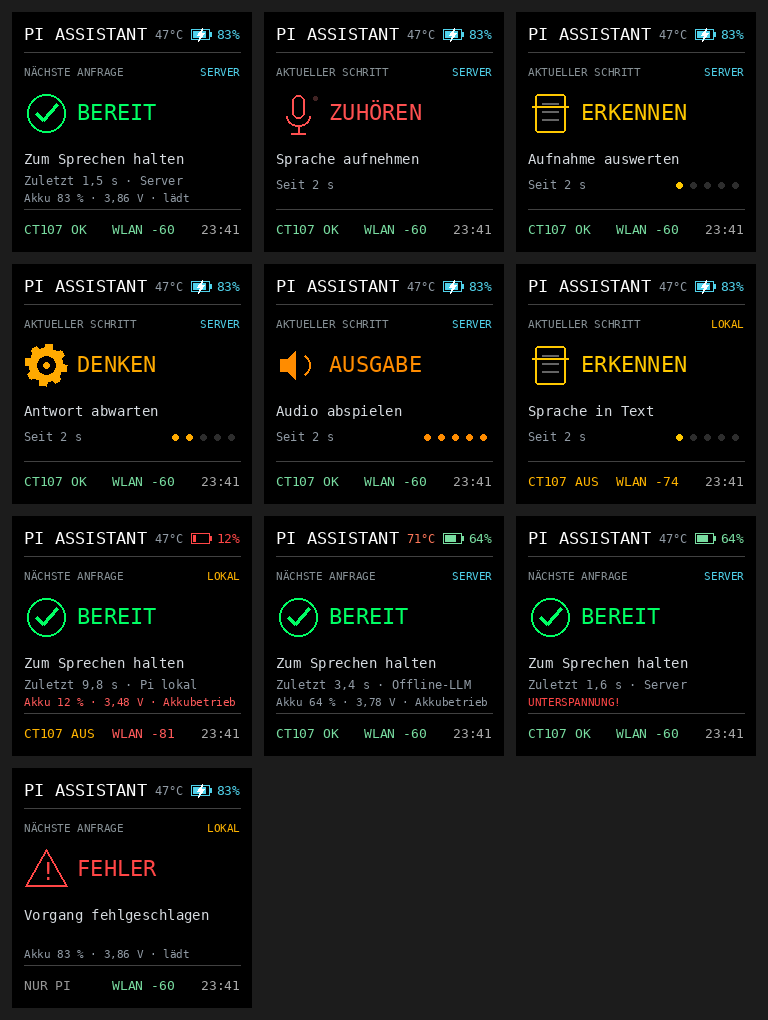
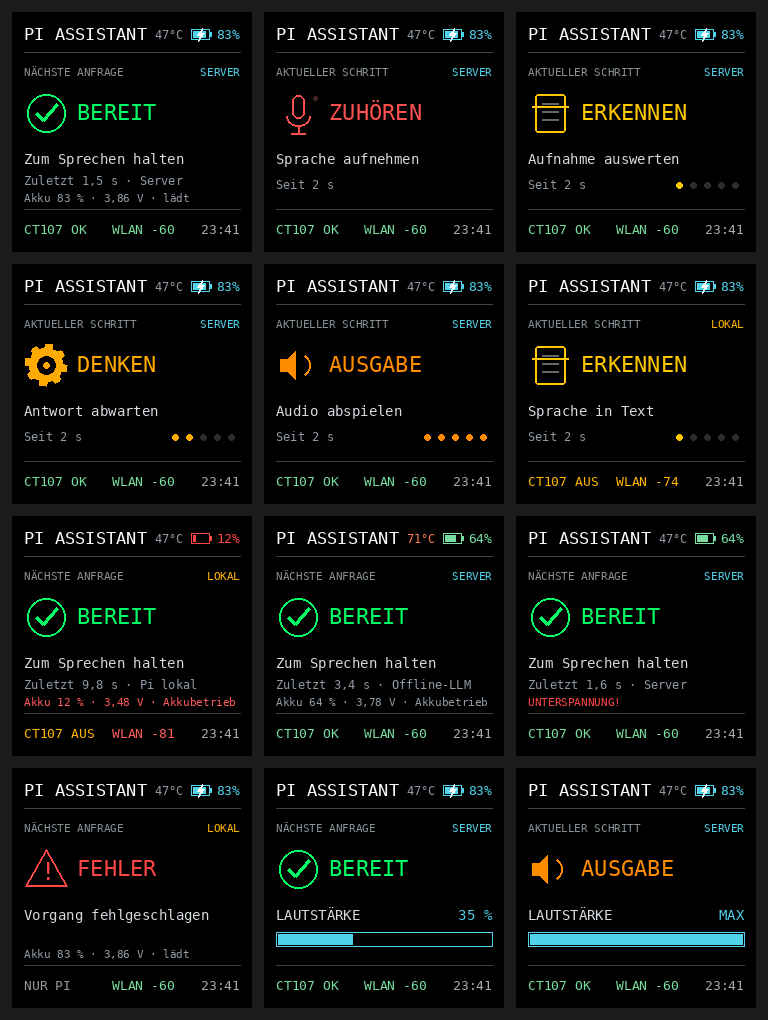
feat: gentle 2 dB volume steps with hold-to-repeat and PiTFT feedback
Each C/D press changed digital Playback by "5 %" of the raw range, about
6.4 dB, an audible jump. change_volume now steps in dB (default 2 dB,
TTS_VOLUME_STEP_DB) within -60..0 dB on the 0.5 dB raw grid, never raises
a level that is already below the floor, and returns dB, percent and the
limit hit. Holding C/D repeats after 0.45 s every 0.15 s.

ptt.py publishes volume, volume_limit and volume_at (whitelisted) to the
display status; the PiTFT shows "LAUTSTÄRKE" with a bar and percent (or
MIN/MAX) for 2.5 s, also during an answer. Checked on the real mixer:
-39 -> -37 -> -39 dB.

Changed region(s): [[0.3438, 0.7294, 1.0, 1.0]]

diff --git a/src/display.py b/src/display.py
@@ -61,6 +61,7 @@ VOICE_COLORS = {
 PROGRESS_FILE = Path(os.environ.get('PI_DISPLAY_PROGRESS_FILE', '/run/pi-ptt/display-progress.json'))
 STATUS_FILE = Path(os.environ.get('PI_DISPLAY_STATUS_FILE', '/run/pi-ptt/display-status.json'))
 SERVER_PROBE_INTERVAL_SECONDS = 10.0
+VOLUME_SHOW_SECONDS = 2.5
 SERVER_PROBE_TIMEOUT_SECONDS = 0.5
 ROUTE_LABELS = {'server': ('SERVER', (80, 210, 235)), 'pi': ('LOKAL', (255, 180, 0))}
 SERVER_FOOTER = {
@@ -127,7 +128,24 @@ def read_status(path=None):
     latency = value.get('last_latency_ms')
     if isinstance(latency, int) and not isinstance(latency, bool) and 0 <= latency < 600_000:
         status['last_latency_ms'] = latency
+    volume, volume_at = value.get('volume'), value.get('volume_at')
+    if (isinstance(volume, int) and not isinstance(volume, bool) and 0 <= volume <= 100
+            and isinstance(volume_at, (int, float)) and not isinstance(volume_at, bool)):
+        status['volume'] = volume
+        status['volume_at'] = float(volume_at)
+        if value.get('volume_limit') in ('min', 'max'):
+            status['volume_limit'] = value['volume_limit']
     return status
+
+
+def volume_overlay(status, now=None):
+    """(percent, limit) while a volume change is recent, else None."""
+    if 'volume' not in status:
+        return None
+    now = time.time() if now is None else now
+    if not 0 <= now - status['volume_at'] < VOLUME_SHOW_SECONDS:
+        return None
+    return status['volume'], status.get('volume_limit')
 
 
 def last_answer_text(status):
@@ -635,6 +653,20 @@ def render_voice(display, state, network, details=None, tick=0, elapsed=0, info=
         _right(draw, 228, 53, label, 11, label_color)
     draw_activity_icon(draw, icon, (34, 101), color, tick)
     draw.text((65, 87), state, font=font(22 if len(state)<10 else 19), fill=color)
+    volume = info.get('volume')
+    if volume is not None:
+        # Volume feedback replaces the lower lines for a moment.
+        percent, limit = volume
+        draw.text((12, 139), 'LAUTSTÄRKE', font=font(14), fill=(215, 220, 225))
+        label = {'max': 'MAX', 'min': 'MIN'}.get(limit, f'{percent} %')
+        _right(draw, 228, 139, label, 14, (80, 210, 235))
+        draw.rectangle((12, 164, 228, 178), outline=(80, 210, 235), width=1)
+        width = round(212 * percent / 100)
+        if width:
+            draw.rectangle((14, 166, 14 + width, 176), fill=(80, 210, 235))
+        _draw_footer(draw, network, info)
+        display.image(image, 180)
+        return
     draw.text((12, 139), description, font=font(14), fill=(215,220,225))
     if not idle:
         draw.text((12, 165), f'Seit {max(0, int(elapsed))} s', font=font(12), fill=(145,155,165))
@@ -648,6 +680,11 @@ def render_voice(display, state, network, details=None, tick=0, elapsed=0, info=
         for i in range(1,6):
             xx = 160+(i-1)*14
             draw.ellipse((xx,170,xx+6,176), fill=color if i<=step else (45,45,45))
+    _draw_footer(draw, network, info)
+    display.image(image, 180)
+
+
+def _draw_footer(draw, network, info):
     draw.line((12,197,228,197), fill=(65,65,65))
     server_text, server_color = SERVER_FOOTER.get(info.get('server'), ('VOICE LIVE', (170,170,170)))
     draw.text((12, 209), server_text, font=font(13), fill=server_color)
@@ -662,7 +699,6 @@ def render_voice(display, state, network, details=None, tick=0, elapsed=0, info=
     draw.text((100, 209), link, font=font(13), fill=link_color)
     if info.get('clock'):
         _right(draw, 228, 209, info['clock'], 13, (170, 170, 170))
-    display.image(image, 180)
 
 
 class PartialDisplay:
@@ -786,7 +822,7 @@ def main():
             info = dict(route=status.get('route'), server=server.state, temp_c=temp,
                         wifi_dbm=wifi, clock=time.strftime('%H:%M'),
                         last=last_answer_text(status), throttled=throttled,
-                        battery=battery)
+                        battery=battery, volume=volume_overlay(status))
             # Redraw only when something visible changes: the averaged battery
             # voltage moves by a few mV on almost every sample.
             shown_info = dict(info, battery=battery_view(battery))

diff --git a/tests/test_voice_controls.py b/tests/test_voice_controls.py
@@ -153,7 +153,8 @@ class ControllerTests(unittest.TestCase):
 
     def test_volume_and_status_stay_usable_during_stt(self):
         self.job()
-        with patch('ptt.change_volume') as volume:
+        level = dict(db=-39.0, percent=35, limit=None)
+        with patch('ptt.change_volume', return_value=level) as volume:
             self.tick(down='C')
             self.tick(down='C')
             self.tick()
@@ -208,6 +209,31 @@ class ControllerTests(unittest.TestCase):
         self.assertIn('stt_error', [e['event'] for e in self.events()])
         self.tick(down='A')
         self.recorder.start.assert_called_once()
+
+    def test_holding_volume_button_repeats_after_a_pause(self):
+        level = dict(db=-39.0, percent=35, limit=None)
+        with patch('ptt.change_volume', return_value=level) as volume, \
+                patch('ptt.publish_display_status') as status:
+            for _ in range(6):  # 12 ticks of 0.1 s with D held
+                self.tick(down='D')
+            self.tick()
+            self.tick()
+        # press at ~0.2 s, first repeat after 0.45 s, then every 0.15 s
+        self.assertGreaterEqual(volume.call_count, 5)
+        self.assertLessEqual(volume.call_count, 8)
+        self.assertTrue(all(c.args == (1,) for c in volume.call_args_list))
+        self.assertEqual(status.call_args.kwargs['volume'], 35)
+        calls = volume.call_count
+        self.tick()
+        self.assertEqual(volume.call_count, calls)  # released: no more steps
+
+    def test_single_press_is_a_single_step(self):
+        level = dict(db=-39.0, percent=35, limit=None)
+        with patch('ptt.change_volume', return_value=level) as volume:
+            self.tick(down='C')
+            self.tick()
+            self.tick()
+        self.assertEqual(volume.call_count, 1)
 
     def test_probe_has_no_audio_or_mixer_actions(self):
         self.c.probe = True
@@ -499,9 +525,31 @@ class ProcessTests(unittest.TestCase):
             os.killpg(proc.pid, 0)
 
     def test_volume_targets_only_digital_playback(self):
-        with patch('voice_controls.subprocess.run') as run:
-            change_volume(-1)
-        self.assertEqual(run.call_args.args[0][-3:], ['sset', 'Playback', '5%-'])
+        run = self.mixer(177)
+        level = change_volume(-1, step_db=2, run=run)
+        self.assertEqual(run.call_args.args[0][-3:], ['sset', 'Playback', '173'])
+        self.assertEqual(level, dict(db=-41.0, percent=32, limit=None))
+
+    @staticmethod
+    def mixer(raw):
+        def run(command, **kwargs):
+            if 'sget' in command:
+                return Mock(stdout=f"  Limits: 0 - 255\n  Front Left: {raw} [69%] [-39.00dB]\n"
+                                   f"  Front Right: {raw} [69%] [-39.00dB]\n")
+            return Mock()
+        return Mock(side_effect=run)
+
+    def test_volume_steps_are_small_and_clamped(self):
+        up = change_volume(1, step_db=2, run=self.mixer(253))
+        self.assertEqual((up['db'], up['limit']), (0.0, 'max'))
+        top = self.mixer(255)
+        self.assertEqual(change_volume(1, step_db=2, run=top)['limit'], 'max')
+        self.assertEqual(top.call_count, 1)  # nothing to set at the top
+        floor = change_volume(-1, step_db=2, run=self.mixer(137))
+        self.assertEqual((floor['db'], floor['percent'], floor['limit']), (-60.0, 0, 'min'))
+        below = self.mixer(100)  # set lower elsewhere: down must not raise it
+        self.assertEqual(change_volume(-1, step_db=2, run=below)['db'], -77.5)
+        self.assertEqual(below.call_count, 1)
 
     def test_speech_stop_also_kills_child_that_ignores_sigterm(self):
         with tempfile.TemporaryDirectory() as tmp:

diff --git a/src/ptt.py b/src/ptt.py
@@ -83,7 +83,11 @@ DISPLAY_STATUS_VALUES = {
     'route': {'server', 'pi'},
     'last_route': {'server', 'pi'},
     'last_llm': {'openrouter', 'offline'},
+    'volume_limit': {'min', 'max'},
 }
+# Holding C/D repeats the volume step after a short pause.
+VOLUME_REPEAT_DELAY = 0.45
+VOLUME_REPEAT_INTERVAL = 0.15
 _display_status = {}
 
 
@@ -108,6 +112,12 @@ def publish_display_status(**fields):
                 continue
         elif key == 'last_latency_ms':
             if isinstance(value, bool) or not isinstance(value, int) or value < 0:
+                continue
+        elif key == 'volume':
+            if isinstance(value, bool) or not isinstance(value, int) or not 0 <= value <= 100:
+                continue
+        elif key == 'volume_at':
+            if isinstance(value, bool) or not isinstance(value, (int, float)) or value <= 0:
                 continue
         else:
             continue
@@ -418,6 +428,7 @@ class VoiceController:
         self.turn_released_at = None
         self.turn_route = None
         self.turn_llm = None
+        self.volume_repeat = {}  # 'C'/'D' -> monotonic time of the next repeat
         self.ptt = Button(debounce, limit)
         self.commands = {name: Button(debounce, math.inf) for name in 'BCDE'}
         self.job = None
@@ -502,6 +513,19 @@ class VoiceController:
             event('remote_fallback', target='stt')
         self._set_route('pi')
         self._start_local_stt(capture)
+
+    def _volume_step(self, name):
+        direction = 1 if name == 'D' else -1
+        try:
+            level = change_volume(direction)
+        except (OSError, ValueError, subprocess.SubprocessError) as exc:
+            self.volume_repeat.pop(name, None)
+            event('mixer_error', message=str(exc))
+            return
+        event('volume', direction='up' if direction > 0 else 'down', db=level['db'],
+              percent=level['percent'], limit=level['limit'])
+        publish_display_status(volume=level['percent'], volume_limit=level['limit'],
+                               volume_at=time.time())
 
     def _set_route(self, route):
         self.turn_route = route
@@ -628,13 +652,16 @@ class VoiceController:
             action = None
             # Simultaneous B/E never starts a new status utterance.
             commands = []
+        for name in list(self.volume_repeat):
+            if not self.commands[name].stable:
+                del self.volume_repeat[name]
+            elif name not in commands and now >= self.volume_repeat[name]:
+                self.volume_repeat[name] = now + VOLUME_REPEAT_INTERVAL
+                self._volume_step(name)
         for name in commands:
             if name in 'CD':
-                try:
-                    change_volume(1 if name == 'D' else -1)
-                    event('volume', direction='up' if name == 'D' else 'down', step=5)
-                except (OSError, subprocess.SubprocessError) as exc:
-                    event('mixer_error', message=str(exc))
+                self.volume_repeat[name] = now + VOLUME_REPEAT_DELAY
+                self._volume_step(name)
             elif name == 'E':
                 if (self.recorder.process is not None or action == 'start'
                         or (os.environ.get('PTT_MEMORY_MODE') in ('isolated', 'hybrid')

diff --git a/src/voice_controls.py b/src/voice_controls.py
@@ -548,10 +548,51 @@ class SpeechOutput:
         _terminate_process_group(proc)
 
 
-def change_volume(direction):
-    """One 5 percentage point step of digital Playback; analog/input untouched."""
-    subprocess.run([
-        '/usr/bin/amixer', '-q', '-c', 'wm8960soundcard',
-        'sset', 'Playback', '5%+' if direction > 0 else '5%-'],
-        check=True, timeout=2, stdin=subprocess.DEVNULL,
-        stdout=subprocess.DEVNULL, stderr=subprocess.PIPE)
+VOLUME_CARD = 'wm8960soundcard'
+# WM8960 digital Playback: raw 0..255 in 0.5 dB steps, 255 = 0 dB. The old
+# "5%" step was ~6.4 dB per press; steps are now in dB within a usable range.
+VOLUME_FLOOR_DB = -60.0
+VOLUME_MAX_RAW = 255
+
+
+def _db_to_raw(db):
+    return VOLUME_MAX_RAW + round(db * 2)
+
+
+def volume_percent(db):
+    """Position within VOLUME_FLOOR_DB..0 dB, for the display."""
+    return max(0, min(100, round((db - VOLUME_FLOOR_DB) / -VOLUME_FLOOR_DB * 100)))
+
+
+def _playback_raw(run):
+    output = run(['/usr/bin/amixer', '-c', VOLUME_CARD, 'sget', 'Playback'],
+                 check=True, timeout=2, stdin=subprocess.DEVNULL,
+                 capture_output=True, text=True).stdout
+    for line in output.splitlines():
+        line = line.strip()
+        if line.startswith(('Front Left:', 'Mono:')):
+            return int(line.split(':', 1)[1].split()[0])
+    raise ValueError('Playback volume not found in amixer output')
+
+
+def change_volume(direction, step_db=None, run=subprocess.run):
+    """Step only the digital Playback level by step_db (default 2 dB) within
+    VOLUME_FLOOR_DB..0 dB; analog outputs and capture stay untouched.
+    Returns dB, display percent and which limit was hit, if any."""
+    if step_db is None:
+        step_db = float(os.environ.get('TTS_VOLUME_STEP_DB', '2'))
+    raw = _playback_raw(run)
+    floor = _db_to_raw(VOLUME_FLOOR_DB)
+    delta = max(1, round(step_db * 2))
+    if direction > 0:
+        new = min(VOLUME_MAX_RAW, raw + delta)
+    else:
+        # Never jump up to the floor when the level is already below it.
+        new = max(min(raw, floor), raw - delta)
+    if new != raw:
+        run(['/usr/bin/amixer', '-q', '-c', VOLUME_CARD, 'sset', 'Playback', str(new)],
+            check=True, timeout=2, stdin=subprocess.DEVNULL,
+            stdout=subprocess.DEVNULL, stderr=subprocess.PIPE)
+    db = (new - VOLUME_MAX_RAW) / 2
+    limit = 'max' if new >= VOLUME_MAX_RAW else 'min' if direction < 0 and new <= floor else None
+    return dict(db=db, percent=volume_percent(db), limit=limit)

diff --git a/tests/test_display.py b/tests/test_display.py
@@ -482,3 +482,26 @@ class BatteryViewTests(unittest.TestCase):
         self.assertNotEqual(display.battery_view(a), display.battery_view(dict(a, mv=3874)))
         self.assertNotEqual(display.battery_view(a), display.battery_view(dict(a, percent=84)))
         self.assertIsNone(display.battery_view(None))
+
+
+
+class VolumeOverlayTests(unittest.TestCase):
+    def test_status_and_overlay_window(self):
+        with tempfile.TemporaryDirectory() as tmp:
+            path = Path(tmp) / "status.json"
+            path.write_text('{"volume": 35, "volume_at": 1000.0, "volume_limit": "max"}')
+            status = display.read_status(path)
+            self.assertEqual(display.volume_overlay(status, now=1001.0), (35, "max"))
+            self.assertIsNone(display.volume_overlay(status, now=1003.0))
+            path.write_text('{"volume": 150, "volume_at": 1000.0}')
+            self.assertIsNone(display.volume_overlay(display.read_status(path), now=1000.5))
+
+    def test_render_volume_overlay(self):
+        class Capture:
+            def image(self, image, rotation=0):
+                self.frame = image
+
+        for volume in ((35, None), (100, "max"), (0, "min")):
+            capture = Capture()
+            display.render_voice(capture, "BEREIT", True, info=dict(volume=volume))
+            self.assertEqual(capture.frame.size, (display.WIDTH, display.HEIGHT))

diff --git a/tests/test_remote_turn.py b/tests/test_remote_turn.py
@@ -485,6 +485,17 @@ class DisplayStatusTests(RemoteControllerTests):
         self.assertEqual((status['route'], status['last_route']), ('pi', 'pi'))
         self.assertNotIn('last_llm', status)  # no stale value from an earlier turn
 
+    def test_volume_status_fields(self):
+        import ptt
+        ptt.publish_display_status(volume=35, volume_limit='max', volume_at=1000.5)
+        status = self.status()
+        self.assertEqual((status['volume'], status['volume_limit'], status['volume_at']),
+                         (35, 'max', 1000.5))
+        ptt.publish_display_status(volume=101, volume_limit=None, volume_at=True)
+        status = self.status()
+        self.assertEqual(status['volume'], 35)
+        self.assertNotIn('volume_limit', status)
+
     def test_publish_rejects_unknown_fields_and_values(self):
         import ptt
         ptt.publish_display_status(route='mars', last_latency_ms=-1, text='geheim',

diff --git a/scripts/render-display-preview.py b/scripts/render-display-preview.py
@@ -31,6 +31,9 @@ SCREENS = (
     ('BEREIT', None, dict(BASE, battery=BATTERY, throttled=0x50005,
                           last='Zuletzt 1,6 s · Server')),
     ('FEHLER', None, dict(BASE, server='off')),
+    ('BEREIT', None, dict(BASE, volume=(35, None), last='Zuletzt 1,5 s · Server')),
+    ('AUSGABE', ('Audio abspielen', 'speaker', 5), dict(BASE, route='server',
+                                                        volume=(100, 'max'))),
 )
 
 

diff --git a/docs/button-controls.md b/docs/button-controls.md
@@ -16,7 +16,7 @@ A und GPIO17 bilden gemeinsam einen Aufnahmetaster: Aufnahme endet erst, wenn be
 
 STT läuft im Hintergrund. B verwirft dessen Ergebnis, bricht den nativen Vosk-Aufruf aber nicht ab. Der Slot bleibt bis zum Abschluss belegt, danach braucht gehaltenes PTT Release. PTT stoppt eine vom Dienst gestartete Statusansage vor der Aufnahme; E spricht nicht während Aufnahme. Die Statusansage wird beim Druck neu aus `/proc`, `/sys` und dem Dateisystem aufgebaut; die 1-Minuten-Load wird auf die CPU-Kernzahl normiert und als `SYSTEMLAST` gesprochen. Eigene Wiedergabe läuft als verwalteter `aplay`- oder FFmpeg-Prozess; externe Audioprozesse werden nicht verwaltet.
 
-C/D ändern `amixer ... sset Playback 5%-/5%+`, nicht Speaker, Speaker AC/DC oder Mikrofonpegel. Änderungen werden vom Dienst nicht für den nächsten Boot gespeichert.
+C/D ändern nur den digitalen `Playback`-Regler (0,5-dB-Raster, 255 = 0 dB), nicht Speaker, Speaker AC/DC oder Mikrofonpegel: **2 dB pro Druck** (`TTS_VOLUME_STEP_DB`) im Bereich −60 bis 0 dB. Gehalten wiederholt sich der Schritt nach 0,45 s alle 0,15 s. Früher waren es „5 %“ der Rohwerte, also rund 6,4 dB pro Druck, was hörbar sprang. Ein bereits tiefer eingestellter Pegel wird beim Leiserstellen nicht auf −60 dB angehoben. Das PiTFT zeigt 2,5 s lang „LAUTSTÄRKE“ mit Balken (Prozent des Bereichs −60…0 dB, an den Grenzen MIN/MAX). Änderungen werden vom Dienst nicht für den nächsten Boot gespeichert.
 
 | RGB im Code | Zustand |
 |---|---|
@@ -57,7 +57,7 @@ Rückmeldungen am 05.10.2026, Journalzeiten CEST:
 | Initialisierung | Nach `modprobe i2c-dev`: 21:28:46 shim_ready, Bus 1/0x3f; erneut 21:42:18 |
 | Release → Vosk | Clips 1,50 / 1,38 s liefern tester/testers; weitere Transkripte ja/nix kann man machen. A gegenüber GPIO17 nicht identifiziert |
 | B | cancelled-Ereignisse; aktive Aufnahme/STT waren dabei nicht nachweislich im Gang |
-| C/D | volume down/up, step=5, ohne mixer_error; tatsächliche Pegel/Analogwerte noch nicht gemeinsam ausgelesen |
+| C/D | ursprünglich volume down/up, step=5, ohne mixer_error. Seit 08.10.2026 2-dB-Schritte mit Wiederholung; am Mixer geprüft (−39 → −37 → −39 dB), Tastenbedienung selbst noch nicht erneut abgenommen |
 | E | Zunächst No module named piper; nach GitHub-TTS-Deployment status 21:43:05 → speech_finished 21:43:29, Exitcode 0. Nutzer meldet langsame Sprachausgabe. Exakte LED-Farbe und B während Ansage offen |
 | Reboot | Frühere zusammenfassende Neustartbestätigung betrifft die Einzeltest-Phase. Reboot der aktuellen SHIM-/TTS-Dienstversion nicht belegt |
 

diff --git a/docs/display.md b/docs/display.md
@@ -151,6 +151,7 @@ Vorschau mit dem echten Display-Code und den Pi-Schriften, erzeugt mit [`scripts
 | Schrittzeile rechts | **SERVER** (cyan) oder **LOKAL** (gelb): wo der aktuelle Durchlauf gerechnet wird; im Ruhezustand („NÄCHSTE ANFRAGE“), wohin die nächste Anfrage geht |
 | Zeile unter der Beschreibung (Ruhe) | letzte Antwort: Wartezeit vom Loslassen bis zum ersten Ton und Herkunft (`Server`, `Offline-LLM` = lokales Modell auf CT 107, `Pi lokal` = Fallback) |
 | Zeile darunter (Ruhe) | Akku-Detail „Akku 83 % · 3,86 V · lädt / Netz · voll / Akkubetrieb“; Vorrang haben Warnungen des Pi: `UNTERSPANNUNG!` (rot), `CPU gedrosselt`, `Unterspannung seit Start` |
+| Lautstärke (C/D) | 2,5 s lang „LAUTSTÄRKE“ mit Balken und Prozent (Bereich −60…0 dB), an den Grenzen MAX/MIN; ersetzt kurz die unteren Zeilen, auch während einer Antwort |
 | Fußzeile links | `CT107 OK` / `CT107 AUS` / `NUR PI` (kein `ASSISTANT_BASE_URL`) |
 | Fußzeile Mitte | WLAN-Signal in dBm (grün ≥ −67, gelb ≥ −78, sonst rot), `NET OK` ohne WLAN-Wert, `OFFLINE` |
 | Fußzeile rechts | Uhrzeit |
